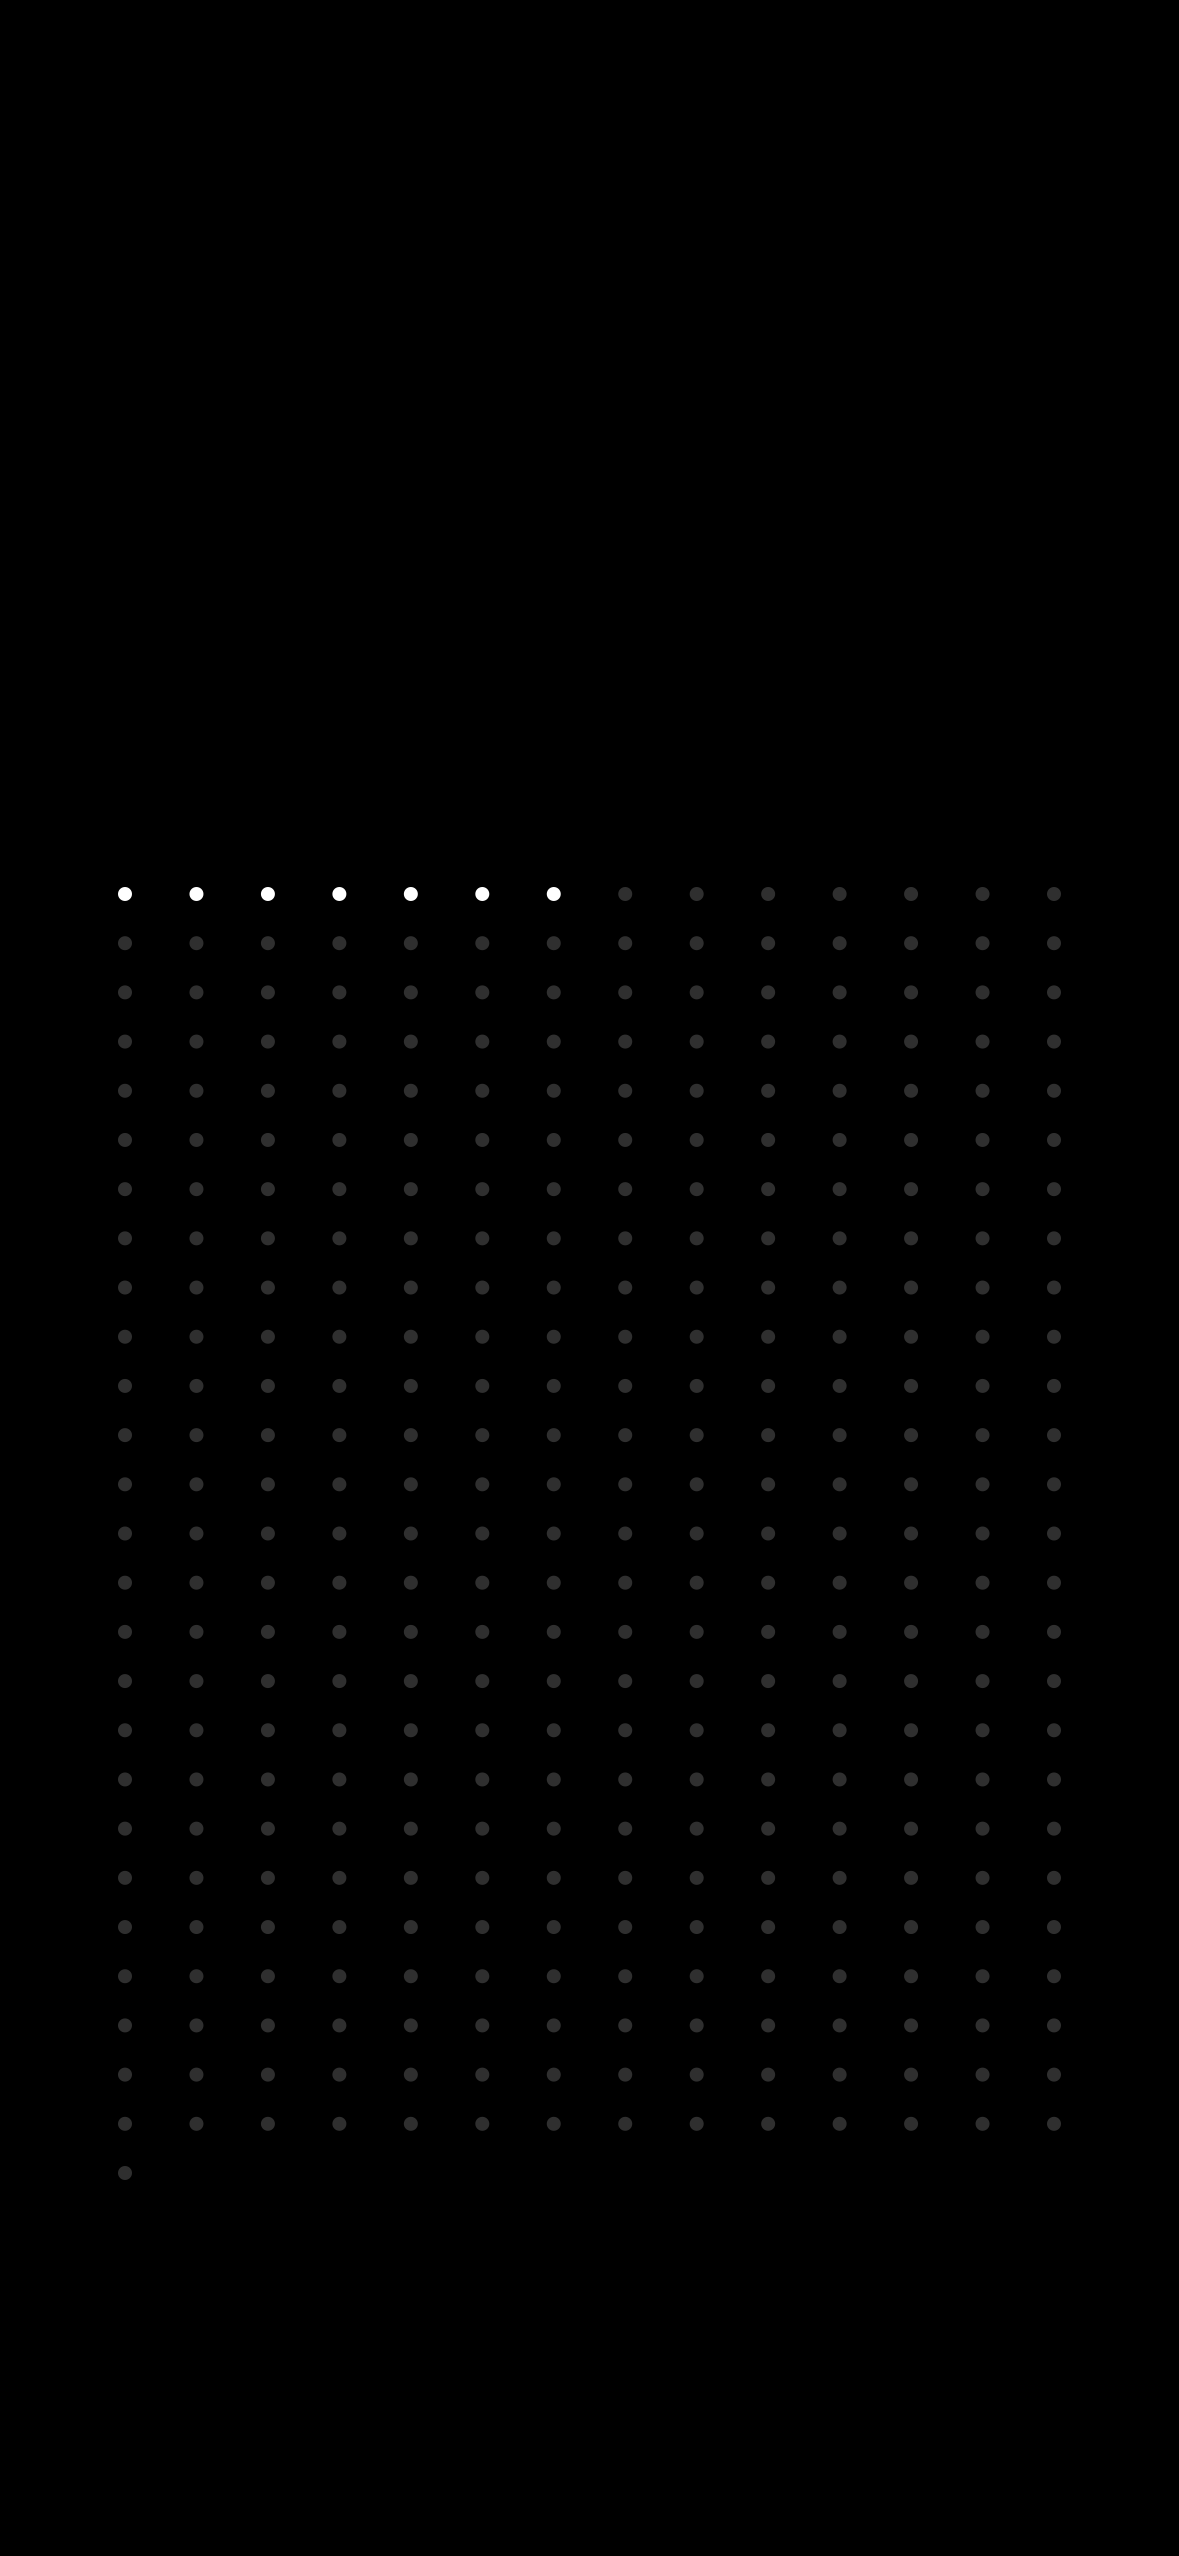
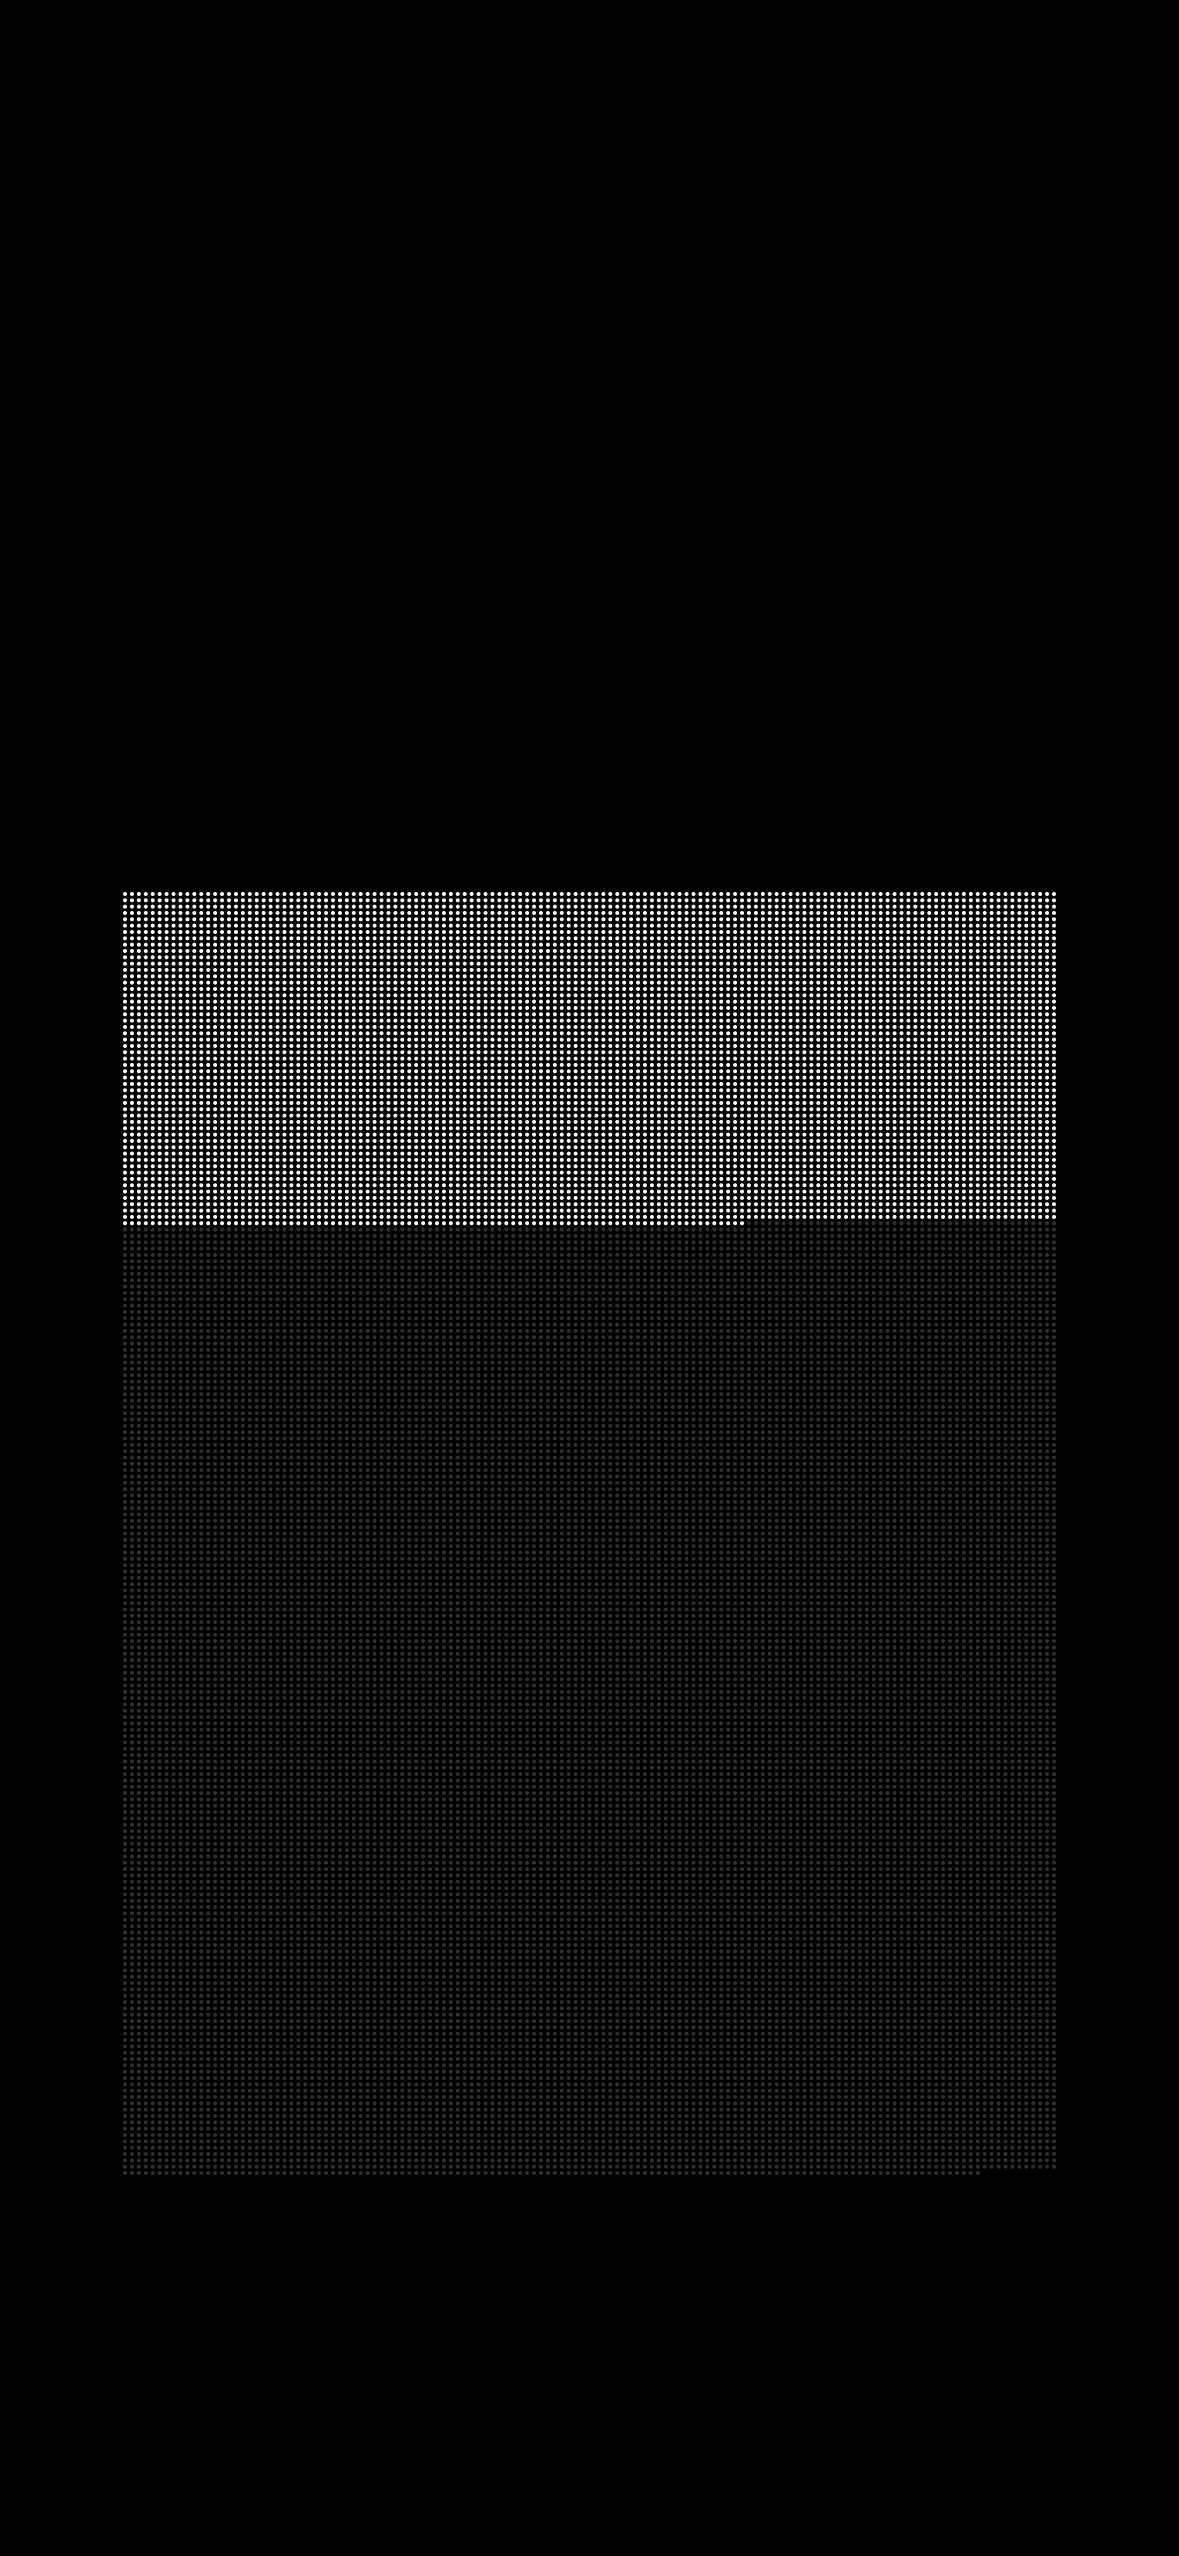
.gitignore + Rebrand from "One Year" to "One Life"

Changed region(s): [[0.0916, 0.34, 0.916, 0.8654]]

diff --git a/render.js b/render.js
@@ -16,80 +16,105 @@ const BG = "#000000";
 const DONE = "#FFFFFF";
 const TODO = "#2F2F2F";
 
+// === BIRTH & LIFESPAN ===
+// Your birthday: July 22, 2006 (UTC)
+const BIRTH_DATE = new Date(Date.UTC(2006, 6, 22));
+// Target age: 75
+const TARGET_AGE = 75;
+
 function clamp(n, min, max) {
-  return Math.max(min, Math.min(max, n));
+    return Math.max(min, Math.min(max, n));
 }
 
-function isLeapYear(y) {
-  return (y % 4 === 0 && y % 100 !== 0) || (y % 400 === 0);
-}
+function computeDays() {
+    // 75th birthday: July 22, 2006 + 75 years = July 22, 2081 (UTC)
+    const endYear = BIRTH_DATE.getUTCFullYear() + TARGET_AGE;
+    const endMonth = BIRTH_DATE.getUTCMonth();
+    const endDate = BIRTH_DATE.getUTCDate();
+    const END_DATE = new Date(Date.UTC(endYear, endMonth, endDate));
 
-// Day-of-year in a chosen timezone.
-// We'll use UTC by default in GitHub Actions to avoid server-local surprises.
-function dayOfYearUTC(d = new Date()) {
-  const start = new Date(Date.UTC(d.getUTCFullYear(), 0, 1));
-  const today = new Date(Date.UTC(d.getUTCFullYear(), d.getUTCMonth(), d.getUTCDate()));
-  const diffMs = today - start;
-  const oneDay = 24 * 60 * 60 * 1000;
-  return Math.floor(diffMs / oneDay) + 1; // Jan 1 => 1
+    const now = new Date();
+    // Use UTC for consistent, server-independent calculations
+    const today = new Date(Date.UTC(now.getUTCFullYear(), now.getUTCMonth(), now.getUTCDate()));
+
+    const oneDay = 24 * 60 * 60 * 1000;
+
+    // Total days from birth to 75th birthday
+    const totalDays = Math.floor((END_DATE - BIRTH_DATE) / oneDay);
+    
+    // Days elapsed from birth until today
+    const dayNumber = Math.floor((today - BIRTH_DATE) / oneDay);
+
+    return { dayNumber, totalDays };
 }
 
 function computeGrid(totalDays) {
-  const cols = 14;
-  const rows = Math.ceil(totalDays / cols);
+    // Increased column limit to 80 to reduce the number of rows and increase vertical spacing (stepY)
+    const MAX_COLS = 135; 
+    
+    // Calculate required rows based on the total days and the maximum allowed columns
+    let cols = clamp(MAX_COLS, 1, totalDays); 
+    let rows = Math.ceil(totalDays / cols);
 
-  const availW = W - SIDE_PAD * 2;
-  const availH = H - TOP_SAFE - BOTTOM_SAFE;
+    const availW = W - SIDE_PAD * 2;
+    const availH = H - TOP_SAFE - BOTTOM_SAFE;
 
-  const stepX = availW / (cols - 1);
-  const stepY = availH / (rows - 1);
+    // The denominator must be at least 1 to avoid division by zero if cols or rows is 1
+    const stepX = availW / (cols - 1 || 1); 
+    const stepY = availH / (rows - 1 || 1);
 
-  let r = Math.floor(Math.min(stepX, stepY) * 0.15);
-  r = clamp(r, 3, 9);
+    // Recalculate radius based on the new, smaller steps
+    let r = Math.floor(Math.min(stepX, stepY) * 0.15);
+    r = 2;
 
-  return { cols, rows, r, stepX, stepY };
+    console.log(`Grid: ${cols} columns x ${rows} rows. Total dots: ${cols * rows}. Actual Ratio (cols/rows): ${(cols/rows).toFixed(3)}`);
+    console.log(`Dot Radius (r): ${r}`);
+
+    return { cols, rows, r, stepX, stepY };
 }
 
 function renderWallpaper(dayNumber, totalDays) {
-  const day = clamp(dayNumber || 0, 0, totalDays);
+    const day = clamp(dayNumber || 0, 0, totalDays);
 
-  const canvas = createCanvas(W, H);
-  const ctx = canvas.getContext("2d");
+    const canvas = createCanvas(W, H);
+    const ctx = canvas.getContext("2d");
 
-  ctx.fillStyle = BG;
-  ctx.fillRect(0, 0, W, H);
+    ctx.fillStyle = BG;
+    ctx.fillRect(0, 0, W, H);
 
-  const { cols, rows, r, stepX, stepY } = computeGrid(totalDays);
+    const { cols, rows, r, stepX, stepY } = computeGrid(totalDays);
 
-  let idx = 0;
-  for (let row = 0; row < rows; row++) {
-    for (let col = 0; col < cols; col++) {
-      idx++;
-      if (idx > totalDays) break;
+    let idx = 0;
+    for (let row = 0; row < rows; row++) {
+        for (let col = 0; col < cols; col++) {
+            idx++;
+            if (idx > totalDays) break;
 
-      const x = SIDE_PAD + col * stepX;
-      const y = TOP_SAFE + row * stepY;
+            const x = SIDE_PAD + col * stepX;
+            const y = TOP_SAFE + row * stepY;
 
-      ctx.beginPath();
-      ctx.arc(x, y, r, 0, Math.PI * 2);
-      ctx.fillStyle = idx <= day ? DONE : TODO;
-      ctx.fill();
+            ctx.beginPath();
+            ctx.arc(x, y, r, 0, Math.PI * 2);
+            ctx.fillStyle = idx <= day ? DONE : TODO;
+            ctx.fill();
+        }
     }
-  }
 
-  return canvas;
+    return canvas;
 }
 
 function main() {
-  const now = new Date();
-  const year = now.getUTCFullYear();
-  const totalDays = isLeapYear(year) ? 366 : 365;
-  const day = dayOfYearUTC(now);
-
-  const canvas = renderWallpaper(day, totalDays);
-  const outPath = "today.png";
-  fs.writeFileSync(outPath, canvas.toBuffer("image/png"));
-  console.log(`Wrote ${outPath} for day ${day}/${totalDays} (year ${year}, UTC)`);
+    const { dayNumber, totalDays } = computeDays();
+    const now = new Date();
+    
+    const canvas = renderWallpaper(dayNumber, totalDays);
+    const outPath = "today.png";
+    fs.writeFileSync(outPath, canvas.toBuffer("image/png"));
+    
+    console.log(`Wrote ${outPath}`);
+    console.log(`Days passed since birth: ${dayNumber}`);
+    console.log(`Total days until age ${TARGET_AGE}: ${totalDays}`);
+    console.log(`Today's date (UTC): ${now.toISOString().substring(0, 10)}`);
 }
 
 main();
